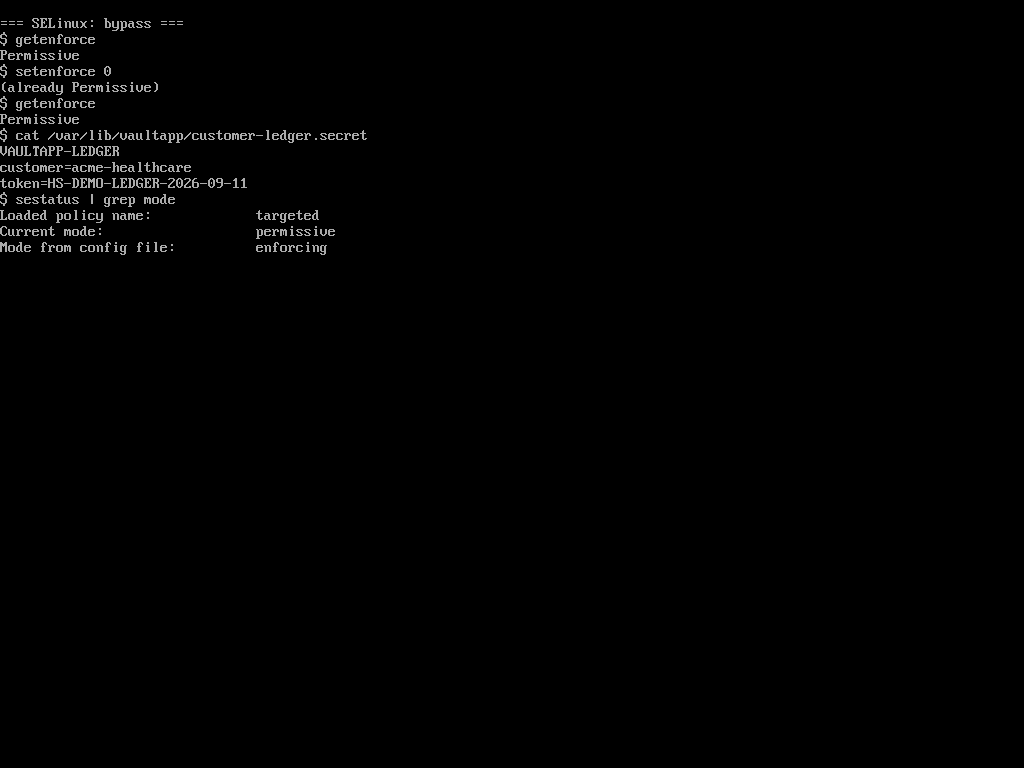
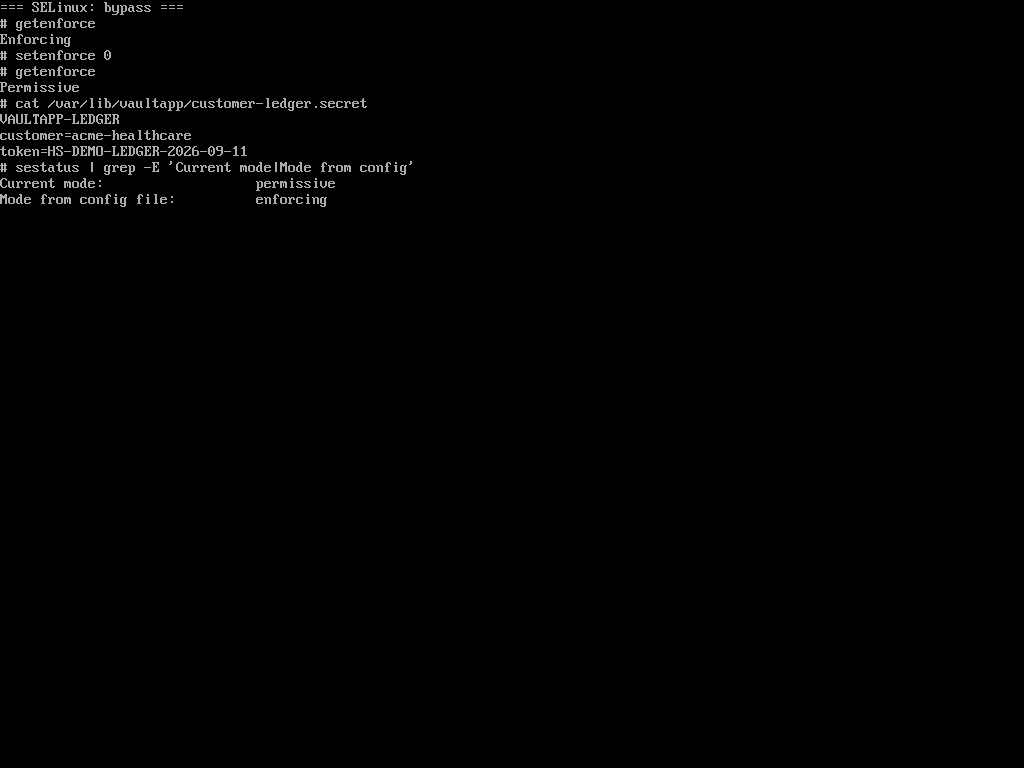
docs: rewrite LSM vs Lockdown lab as a root-shell same-job
Same ledger path on all three hosts. Drop the AI-agent costume and the
python3-as-success caption. Show mkdir refused under Lockdown, vaultapp
still reading on AppArmor/SELinux, and setenforce from Enforcing.

Changed region(s): [[0.0, 0.0, 0.3438, 0.3438]]

diff --git a/content/en/blog/2026-09-11-ai-agent-vs-selinux-apparmor-root-lock/index.md b/content/en/blog/2026-09-11-ai-agent-vs-selinux-apparmor-root-lock/index.md
@@ -1,64 +1,45 @@
 ---
-title: "What would Root Lock have stopped if an AI agent already had root?"
-linkTitle: "Root Lock after an agent with root"
+title: "What Lockdown refused after root already had a shell"
+linkTitle: "Lockdown after a root shell"
 date: 2026-09-11
 draft: false
-description: "An AI agent with root read another application's file on AppArmor and SELinux by disabling the LSM. On Root Lock in Lockdown, the kernel kept refusing."
+description: "On stock AppArmor and targeted SELinux, unconfined root read another application's file until extra policy was added, then turned that policy off without a reboot. Under Lockdown the same ledger path could not be created, the allowlist write was refused, and cat stayed denied."
 author: "Ron Hessing"
-categories: ["Incidents"]
-tags: ["root-lock", "ai-agents", "selinux", "apparmor", "lockdown", "allowlisting"]
+tags: ["root-lock", "selinux", "apparmor", "lockdown", "allowlisting"]
 toc: true
 ---
 
-Every attack does three things: run a program, access files, make a network connection.
+SSH as root. The job is the same on three hosts: read a file that belongs to another program.
 
-Root Lock by HeartSuite enforces default-deny on all three at the kernel, per program, including as root.
-
-An AI agent that already has remote root is a natural test of that model. Give it one job on three hosts: read a file that belongs to another program.
-
-This piece answers a narrower question: once the agent has root, can it turn AppArmor or SELinux off without a reboot, and does Lockdown still refuse the same move?
-
-## The job, on three hosts
-
-The agent is a shell as root. The instruction is the same on every box: access that file. It belongs to a specific application. Do whatever is necessary.
-
-On Ubuntu 24.04 with AppArmor, and on Rocky Linux 9 with SELinux targeted Enforcing, the file is a ledger owned by `vaultapp`:
-
-```
+```text
 /var/lib/vaultapp/customer-ledger.secret
 ```
 
-On Debian 12 running Root Lock **6.18.9-hs** in Secure Mode with Lockdown on, the file is one the Dashboard interpreter is granted and `/usr/bin/cat` is not:
+Do whatever is necessary. No reboot.
 
-```
-/opt/heartsuite/src/main.py
-```
+Ubuntu 24.04 with AppArmor. Rocky Linux 9 with SELinux targeted Enforcing. Debian 12 running Root Lock by HeartSuite **6.18.9-hs** with Lockdown on.
 
 Stock Ubuntu AppArmor does not confine `cat`. Stock Rocky targeted policy maps root to `unconfined_u`, and [Red Hat documents](https://docs.redhat.com/en/documentation/red_hat_enterprise_linux/9/html/using_selinux/managing-confined-and-unconfined-users_using-selinux) that unconfined users, including administrators, are only minimally restricted. On both of those hosts, unconfined root `cat` of the ledger succeeded while the LSM was loaded.
 
 That is the hole [How it compares](https://docs.heartsecsuite.com/rootlock/introduction/how-it-compares/) already names: LSM policy is applied to a running kernel from userspace, and unconfined root is the common SSH case.
 
-The AppArmor and SELinux hosts then got a deny for that path: a profile on `cat` that still lets `vaultapp` read its own ledger, and a `vaultapp_secret_t` type that still lets a confined `vaultapp_t` read it. The agent still had the documented admin APIs. No reboot.
+The AppArmor and SELinux hosts then got a deny for that path: a profile on `cat` that still lets `vaultapp` read its own ledger, and a `vaultapp_secret_t` type that still lets a confined `vaultapp_t` read it. Root still had the documented admin APIs.
 
 ## AppArmor
 
-After that profile, root `cat` failed:
+After that profile, root `cat` failed. `vaultapp` still printed the ledger.
 
-```
+```text
 cat: /var/lib/vaultapp/customer-ledger.secret: Permission denied
 apparmor="DENIED" operation="open" profile="demo-agent-cat"
  name="/var/lib/vaultapp/customer-ledger.secret" requested_mask="r"
 ```
 
-`vaultapp` still read the ledger.
+![AppArmor denies cat; vaultapp still reads](apparmor-denied.png)
 
-![AppArmor denies the agent's first read](apparmor-denied.png)
+Root then ran the documented unload ([`aa-disable`](https://apparmor.net/man/master/aa-disable/)):
 
-(The screenshot shows Ubuntu 24.04: `cat` of the vaultapp ledger returns Permission denied, with `demo-agent-cat` in enforce.)
-
-The agent then ran the documented unload ([`aa-disable`](https://apparmor.net/man/master/aa-disable/)):
-
-```
+```bash
 aa-disable /etc/apparmor.d/demo-agent-tools
 ```
 
@@ -66,15 +47,13 @@ aa-disable /etc/apparmor.d/demo-agent-tools
 
 ![AppArmor profile disabled, ledger in the clear](apparmor-bypass.png)
 
-(The screenshot shows `aa-disable` on the profile, then `cat` returning the vaultapp ledger.)
-
 Root can unload an AppArmor profile without rebooting.
 
 ## SELinux
 
-After the custom type, the same `cat` failed under Enforcing:
+After the custom type, the same `cat` failed under Enforcing. `vaultapp` still printed the ledger.
 
-```
+```text
 cat: /var/lib/vaultapp/customer-ledger.secret: Permission denied
 avc: denied { read } for comm="cat" name="customer-ledger.secret"
  scontext=unconfined_u:unconfined_r:unconfined_t:s0-s0:c0.c1023
@@ -82,21 +61,17 @@ avc: denied { read } for comm="cat" name="customer-ledger.secret"
  tclass=file permissive=0
 ```
 
-![SELinux AVC denies unconfined cat](selinux-denied.png)
+![SELinux AVC denies unconfined cat; vaultapp still reads](selinux-denied.png)
 
-(The screenshot shows Rocky 9 Enforcing: `unconfined_t` cannot read `vaultapp_secret_t`.)
+Root then ran the documented switch ([Red Hat: permissive mode](https://docs.redhat.com/en/documentation/red_hat_enterprise_linux/9/html/using_selinux/changing-selinux-states-and-modes_using-selinux)):
 
-The agent then ran the documented switch ([Red Hat: permissive mode](https://docs.redhat.com/en/documentation/red_hat_enterprise_linux/9/html/using_selinux/changing-selinux-states-and-modes_using-selinux)):
-
-```
+```bash
 setenforce 0
 ```
 
-`getenforce` returned Permissive. `cat` printed the same three ledger lines. `vaultapp` had kept working. Policy stayed on disk. Enforcement did not. No reboot.
+`getenforce` was Enforcing, then Permissive. `cat` printed the same three ledger lines. Policy stayed on disk. Mode from the config file stayed enforcing. No reboot.
 
-![SELinux set permissive, ledger in the clear](selinux-bypass.png)
-
-(The screenshot shows `setenforce 0`, then `cat` returning the vaultapp ledger, with current mode Permissive.)
+![SELinux set permissive from Enforcing, ledger in the clear](selinux-bypass.png)
 
 Root can set SELinux to permissive without rebooting.
 
@@ -104,60 +79,64 @@ Root can set SELinux to permissive without rebooting.
 
 Lockdown was already on. SSH as root still worked. That is the day-to-day admin path. It is not the unseal path.
 
-`/usr/bin/cat` is allowlisted for `/.hs/sys`, `/etc`, `/run`, `/proc`, `/usr/lib`. It is not allowlisted for `/opt/heartsuite`. The Dashboard interpreter is.
+The same ledger path is not on this host, and it could not be planted:
 
+```text
+# mkdir -p /var/lib/vaultapp
+mkdir: cannot create directory '/var/lib/vaultapp': Unknown error 242
+# /usr/local/bin/vaultapp
+bash: /usr/local/bin/vaultapp: Permission denied
 ```
-$ cat /opt/heartsuite/src/main.py
+
+The kernel refused the create. An empty `vaultapp` leftover from an earlier attempt could not be rewritten or executed. That is the same job, earlier in the sequence.
+
+![Root Lock refuses the ledger path; python3 still reads its own tree](rootlock-same-path.png)
+
+What is already on disk is a file the Dashboard interpreter is granted and `/usr/bin/cat` is not: `/opt/heartsuite/src/main.py`. `/usr/bin/cat` is allowlisted for `/.hs/sys`, `/etc`, `/run`, `/proc`, `/usr/lib`. It is not allowlisted for `/opt/heartsuite`.
+
+```text
+# cat /opt/heartsuite/src/main.py
 cat: /opt/heartsuite/src/main.py: Permission denied
-
-$ python3 -c "print(open('/opt/heartsuite/src/main.py').readline())"
-# SPDX-License-Identifier: BUSL-1.1
 ```
 
-The application can read its file. The agent's `cat` cannot.
-
-Then the same disable moves that worked on the other two hosts:
+Then the disable moves that matter on this kernel. `setenforce` and `aa-disable` are not installed on this Debian guest; a missing binary is not a kernel deny.
 
 | Move | Result under Lockdown |
 |---|---|
-| `setenforce 0` | `command not found` |
-| `aa-disable` | `command not found` |
 | add a `cat` grant for that path | `Record could not be stored in APO database` |
 | `chattr -i` on the allowlist | `Permission denied while reading flags` |
-| switch the host out of Secure Mode | `Could not open hs_monitor_state.bin file; errno: 1` |
 | `cat` again | still Permission denied |
 
 ![Root Lock denies cat and refuses the allowlist write](rootlock-denied.png)
 
-(The screenshot shows the Dashboard file denied to `cat`, the allowlist add refused, `chattr -i` refused, and `cat` still denied, with Lockdown on.)
-
-![Dashboard interpreter can read; disable paths do not](rootlock-held.png)
-
-(The screenshot shows the Dashboard python reading the first line of its own file, `setenforce` / `aa-disable` missing, the allowlist write still refused, and `cat` still denied.)
-
 Under Lockdown there is no permissive mode, nothing to unload, and the allowlist cannot be edited. The files are immutable, and the kernel refuses the write.
 
-## What the kernel actually refused
+`/usr/bin/python3` is the Dashboard interpreter and is granted `/opt/heartsuite`. A root shell can invoke that same binary:
+
+```text
+# python3 -c "print(open('/opt/heartsuite/src/main.py').readline())"
+# SPDX-License-Identifier: BUSL-1.1
+```
+
+Grants follow the program, not who typed the command. That is the point of per-program grants, and it is the residual: if the interpreter at the keyboard is the program granted that tree, the tree is readable. A guest image for a tool-using agent would not grant the agent interpreter the Dashboard tree. The same residual is in the [ExploitGym write-up](/blog/2026-09-10-would-root-lock-have-stopped-the-july-2026-agent-swarm/).
+
+## What the kernel refused
 
 | Step | AppArmor | SELinux | Root Lock in Lockdown |
 |---|---|---|---|
-| Default distro policy vs unconfined root `cat` | Allowed | Allowed | `cat` has no grant for that application path: denied |
-| After a deny for the agent on that path | Denied | Denied | Already denied (no extra policy file) |
-| Documented root disable | `aa-disable` the profile | `setenforce 0` | Allowlist add refused; `chattr` refused; no permissive switch |
+| Default distro policy vs unconfined root `cat` of the ledger | Allowed | Allowed | `mkdir /var/lib/vaultapp` refused |
+| After a deny for `cat` on that path | Denied | Denied | Already denied (no extra policy file) |
+| Owning program | `vaultapp` still reads | `vaultapp` still reads | `vaultapp` could not be written or executed |
+| Documented root disable | `aa-disable` the profile | `setenforce 0` | Allowlist add refused; `chattr` refused |
 | Second `cat` | Ledger in the clear | Ledger in the clear | Still denied |
-| Application itself | `vaultapp` still reads | `vaultapp_t` still reads | Dashboard python still reads |
 
-That is the same split as [How it compares](https://docs.heartsecsuite.com/rootlock/introduction/how-it-compares/): SELinux and AppArmor are LSM policy an attacker who already has remote root can set permissive or unload. Root Lock is compiled into the kernel; Lockdown seals the allowlist.
+SELinux and AppArmor are LSM policy root can set permissive or unload. Root Lock is compiled into the kernel; Lockdown seals the allowlist.
 
-Root Lock is strongest on post-shell containment of programs that were never granted that path. An allowlisted application can still read its own files. That is the point of per-program grants, not a bypass. The same residual is in the [ExploitGym write-up](/blog/2026-09-10-would-root-lock-have-stopped-the-july-2026-agent-swarm/).
-
-## What still belongs to the operator
-
-With or without Root Lock:
+## What Setup Mode still decides
 
 1. Stock Ubuntu AppArmor and stock Rocky targeted SELinux do not stop unconfined root from reading another application's file. A deny for that path is extra policy. Do not treat a default LSM as a root-proof file boundary.
 2. Setup Mode can still harvest too much. On the Root Lock host, `cat` had a wide grant under `/etc`, so host keys in `/etc/ssh` were readable. That is [circumvention and recovery](https://docs.heartsecsuite.com/rootlock/introduction/how-it-compares/#circumvention-and-recovery), not a Lockdown failure.
 3. Unsealing Lockdown still takes physical or serial-console access. SSH as root is not enough to store a new allowlist row or to clear immutability.
 4. SELinux still has policy depth Root Lock does not replicate. Root Lock does not replace SIEM, NDR, or a scanner.
 
-If the host is a fit for agent sandboxes, bake the allowlist into a guest image, boot into Lockdown for the life of the task, then discard the VM. See [Deployment scenarios](https://docs.heartsecsuite.com/rootlock/introduction/deployment-scenarios/) and [Allowlisting basics](https://docs.heartsecsuite.com/rootlock/allowlisting/allowlisting-basics/). The seal itself is [Lockdown](https://docs.heartsecsuite.com/rootlock/lockdown/).
+See [Lockdown](https://docs.heartsecsuite.com/rootlock/lockdown/) and [Allowlisting basics](https://docs.heartsecsuite.com/rootlock/allowlisting/allowlisting-basics/).
